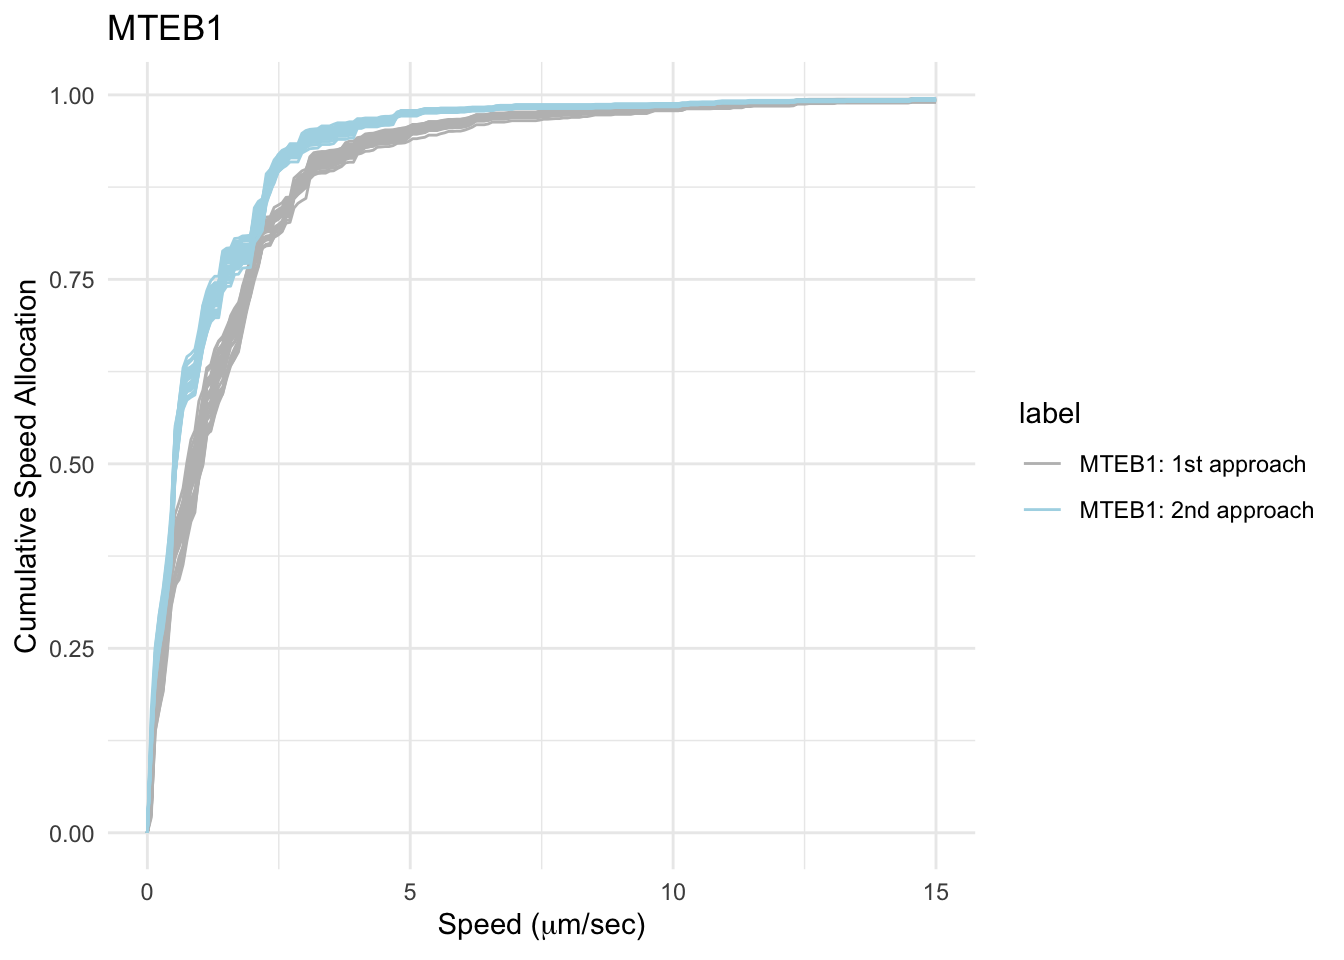
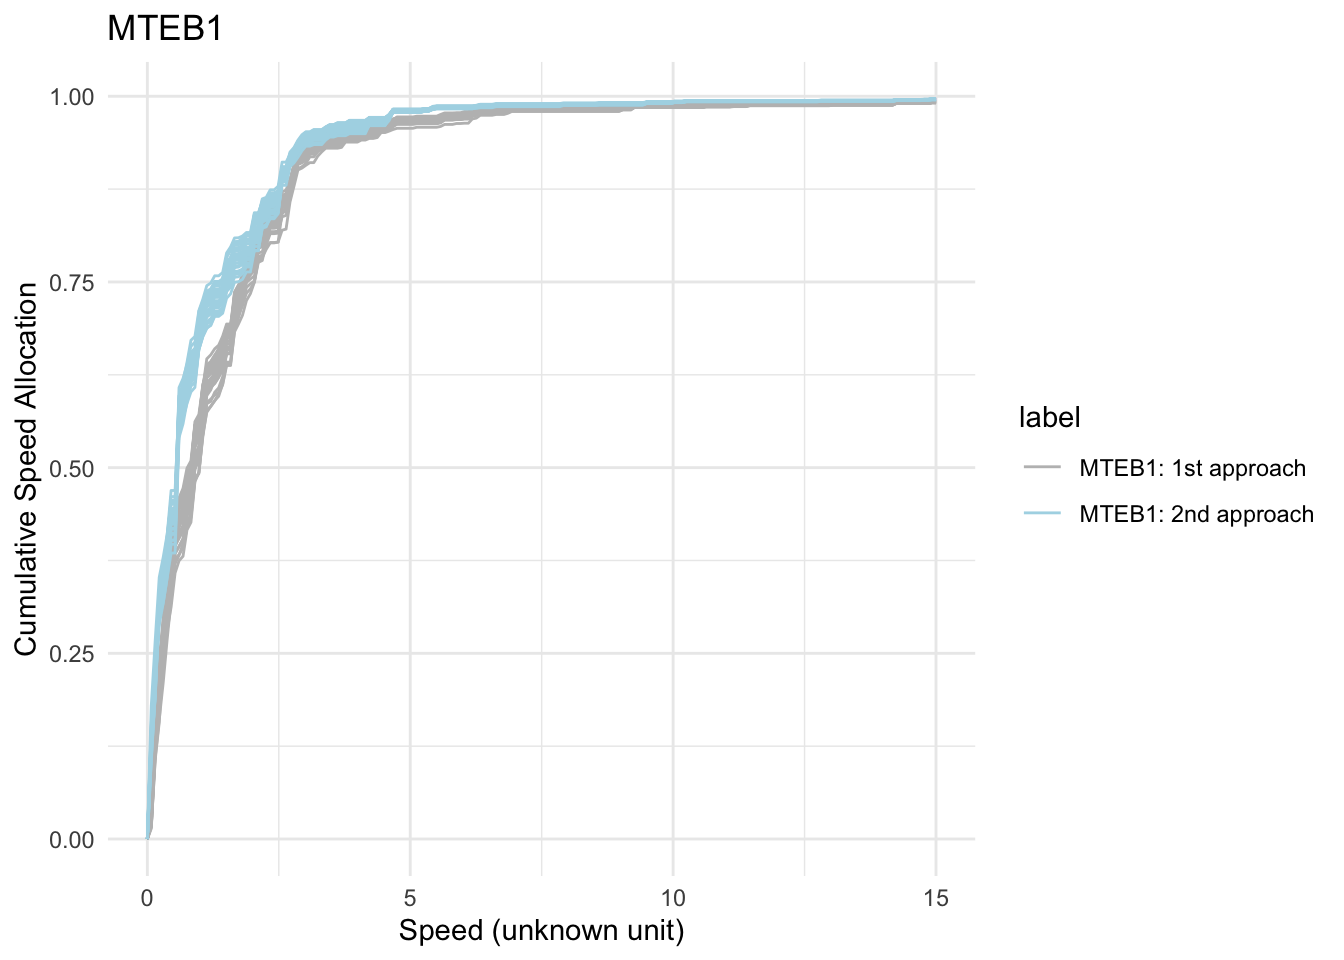
Build site.

diff --git a/docs/Movement_analysis_on_MTEB1_data.html b/docs/Movement_analysis_on_MTEB1_data.html
@@ -392,7 +392,7 @@ class="glyphicon glyphicon-ok text-success" aria-hidden="true"></span>
 <div class="tab-content">
 <div id="summary" class="tab-pane fade in active">
 <p>
-<strong>Last updated:</strong> 2025-08-31
+<strong>Last updated:</strong> 2025-09-02
 </p>
 <p>
 <strong>Checks:</strong> <span
@@ -523,15 +523,15 @@ project makes it easier to run your code on other machines.</p>
 <div class="panel panel-default">
 <div class="panel-heading">
 <p class="panel-title">
-<a data-toggle="collapse" data-parent="#workflowr-checks" href="#strongRepositoryversionstrongahrefhttpsgithubcomLdo3MTEB1Datatreedc11ef45e5eee281a27d04aa5146d543d7ead510targetblankdc11ef4a">
+<a data-toggle="collapse" data-parent="#workflowr-checks" href="#strongRepositoryversionstrongahrefhttpsgithubcomLdo3MTEB1Datatreef2cc3daaed8329593bad81776e99f9081a0f0d7ctargetblankf2cc3daa">
 <span class="glyphicon glyphicon-ok text-success"
 aria-hidden="true"></span> <strong>Repository version:</strong>
-<a href="https://github.com/Ldo3/MTEB1Data/tree/dc11ef45e5eee281a27d04aa5146d543d7ead510" target="_blank">dc11ef4</a>
+<a href="https://github.com/Ldo3/MTEB1Data/tree/f2cc3daaed8329593bad81776e99f9081a0f0d7c" target="_blank">f2cc3da</a>
 </a>
 </p>
 </div>
 <div
[2 lines of base64/hex data omitted]
 class="panel-collapse collapse">
 <div class="panel-body">
 <p>
@@ -541,7 +541,7 @@ reproducibility.
 </p>
 <p>
 The results in this page were generated with repository version
-<a href="https://github.com/Ldo3/MTEB1Data/tree/dc11ef45e5eee281a27d04aa5146d543d7ead510" target="_blank">dc11ef4</a>.
+<a href="https://github.com/Ldo3/MTEB1Data/tree/f2cc3daaed8329593bad81776e99f9081a0f0d7c" target="_blank">f2cc3da</a>.
 See the <em>Past versions</em> tab to see a history of the changes made
 to the R Markdown and HTML files.
 </p>
@@ -575,7 +575,10 @@ Untracked files:
     Untracked:  code/plot_functions.R
     Untracked:  code/postprocess.R
     Untracked:  data/CPLASS_MTEB1_1st.rds
+    Untracked:  data/CPLASS_MTEB1_1st_1.rds
+    Untracked:  data/CPLASS_MTEB1_1st_s_cap_6.rds
     Untracked:  data/CPLASS_MTEB1_2nd.rds
+    Untracked:  data/CPLASS_MTEB1_2nd_1.rds
     Untracked:  data/branch_points.csv
     Untracked:  data/branch_points.png
     Untracked:  data/first_approach_data.rds
@@ -630,6 +633,40 @@ Message
 </tr>
 </thead>
 <tbody>
+<tr>
+<td>
+Rmd
+</td>
+<td>
+<a href="https://github.com/Ldo3/MTEB1Data/blob/f2cc3daaed8329593bad81776e99f9081a0f0d7c/analysis/Movement_analysis_on_MTEB1_data.Rmd" target="_blank">f2cc3da</a>
+</td>
+<td>
+Ldo3
+</td>
+<td>
+2025-09-02
+</td>
+<td>
+wflow_publish(c("index.Rmd", "Movement_analysis_on_MTEB1_data.Rmd"))
+</td>
+</tr>
+<tr>
+<td>
+html
+</td>
+<td>
+<a href="https://rawcdn.githack.com/Ldo3/MTEB1Data/aabef47a0148058d565b9c89fe97d65982ab261d/docs/Movement_analysis_on_MTEB1_data.html" target="_blank">aabef47</a>
+</td>
+<td>
+Ldo3
+</td>
+<td>
+2025-08-31
+</td>
+<td>
+Build site.
+</td>
+</tr>
 <tr>
 <td>
 html
@@ -816,7 +853,7 @@ times.</p></li>
 <li><p>The green areas show the motile segments while the pink areas
 show the stationary segments.</p></li>
 </ul>
-<pre class="r"><code>path_list = readRDS(here(&quot;data&quot;,&quot;CPLASS_MTEB1_1st.rds&quot;))
+<pre class="r"><code>path_list = readRDS(here(&quot;data&quot;,&quot;CPLASS_MTEB1_1st_1.rds&quot;))
 #######################
 motor = &quot;MTEB1-1st&quot; #change the name to the name of your data
 dist_max = c()
@@ -918,15 +955,15 @@ Ldo3
 </table>
 </div>
 </div>
-<pre class="r"><code># path_list = readRDS(here(&quot;data&quot;,&quot;CPLASS_MTEB1_1st.rds&quot;))
+<pre class="r"><code># path_list = readRDS(here(&quot;data&quot;,&quot;CPLASS_MTEB1_1st_1.rds&quot;))
 # #######################
 # # for REAL DATA use the lines below.
 # file_list = c(&quot;MTEB1-1st&quot;)
 # filestub = paste0(&quot;figures/Real&quot;,file_list[1])
 # # infile = paste0(filestub,&quot;_cplass.rds&quot;)
-# outfile = paste0(filestub,&quot;_gallery.pdf&quot;)
+# outfile = paste0(filestub,&quot;_gallery_1.pdf&quot;)
 # # path_list = readRDS(infile)
-# # 
+# #
 # motor = &quot;MTEB1-1st&quot; #change the name to the name of your data
 # 
 # #######################
@@ -935,7 +972,7 @@ Ldo3
 # # infile = paste0(filestub,&quot;.rds&quot;)
 # # outfile = paste0(filestub,&quot;_gallery_&quot;,sp,&quot;.pdf&quot;)
 # # path_list = readRDS(infile)
-# # 
+# #
 # # if(theta$motor == &quot;CKP&quot;){
 # #     motor = &quot;Base&quot;
 # #   }else if(theta$motor == &quot;kin1&quot;){
@@ -962,7 +999,7 @@ Ldo3
 #   path = path_list[[i]]$path_inferred
 #   segments = path_list[[i]]$segments_inferred
 #   speed_max = c(speed_max,max(path_list[[i]]$segments_inferred$speeds))
-#   
+# 
 #   dist_max = c(dist_max,max(c(max(path$x)-min(path$x)),
 #                             max((path$y)-min(path$y))))
 #   t_max = c(t_max,max(path$t) - min(path$t))
@@ -976,7 +1013,7 @@ Ldo3
 #   if (i %% 20 == 0){
 #     print(paste(&quot;Working on path&quot;,i))
 #   }
-#   
+# 
 #   # #REAL DATA PLOTS (dashboard)
 #   # dashboard = plot_path_real(path_list[[i]],xy_width,t_lim)
 #   # print(dashboard)
@@ -988,7 +1025,7 @@ Ldo3
 #   # SIMULATION PLOTS (only x-y plot)
 #   # plot_xy = plot_path_inferred_xy(path_list[[i]],xy_width,t_lim, motor, max_speed)
 #   # print(plot_xy)
-#   
+# 
 # }
 # 
 # if (pdf_output == TRUE){
@@ -1105,13 +1142,13 @@ times.</p></li>
 <li><p>The green areas show the motile segments while the pink areas
 show the stationary segments.</p></li>
 </ul>
-<pre class="r"><code>path_list = readRDS(here(&quot;data&quot;,&quot;CPLASS_MTEB1_2nd.rds&quot;))
+<pre class="r"><code>path_list = readRDS(here(&quot;data&quot;,&quot;CPLASS_MTEB1_2nd_1.rds&quot;))
 #######################
 # for REAL DATA use the lines below.
 file_list = c(&quot;MTEB1-2nd&quot;)
 filestub = paste0(&quot;figures/Real&quot;,file_list[1])
 # infile = paste0(filestub,&quot;_cplass.rds&quot;)
-outfile = paste0(filestub,&quot;_gallery.pdf&quot;)
+outfile = paste0(filestub,&quot;_gallery_1.pdf&quot;)
 # path_list = readRDS(infile)
 # 
 motor = &quot;MTEB1-2nd&quot; #change the name to the name of your data
@@ -1290,15 +1327,15 @@ Ldo3
 </table>
 </div>
 </div>
-<pre class="r"><code># path_list = readRDS(here(&quot;data&quot;,&quot;CPLASS_MTEB1_2nd.rds&quot;))
+<pre class="r"><code># path_list = readRDS(here(&quot;data&quot;,&quot;CPLASS_MTEB1_2nd_1.rds&quot;))
 # #######################
 # # for REAL DATA use the lines below.
 # file_list = c(&quot;MTEB1-2nd&quot;)
 # filestub = paste0(&quot;figures/Real&quot;,file_list[1])
 # # infile = paste0(filestub,&quot;_cplass.rds&quot;)
-# outfile = paste0(filestub,&quot;_gallery.pdf&quot;)
+# outfile = paste0(filestub,&quot;_gallery_1.pdf&quot;)
 # # path_list = readRDS(infile)
-# # 
+# #
 # motor = &quot;MTEB1-2nd&quot; #change the name to the name of your data
 # 
 # #######################
@@ -1307,7 +1344,7 @@ Ldo3
 # # infile = paste0(filestub,&quot;.rds&quot;)
 # # outfile = paste0(filestub,&quot;_gallery_&quot;,sp,&quot;.pdf&quot;)
 # # path_list = readRDS(infile)
-# # 
+# #
 # # if(theta$motor == &quot;CKP&quot;){
 # #     motor = &quot;Base&quot;
 # #   }else if(theta$motor == &quot;kin1&quot;){
@@ -1334,7 +1371,7 @@ Ldo3
 #   path = path_list[[i]]$path_inferred
 #   segments = path_list[[i]]$segments_inferred
 #   speed_max = c(speed_max,max(path_list[[i]]$segments_inferred$speeds))
-#   
+# 
 #   dist_max = c(dist_max,max(c(max(path$x)-min(path$x)),
 #                             max((path$y)-min(path$y))))
 #   t_max = c(t_max,max(path$t) - min(path$t))
@@ -1348,7 +1385,7 @@ Ldo3
 #   if (i %% 20 == 0){
 #     print(paste(&quot;Working on path&quot;,i))
 #   }
-#   
+# 
 #   # #REAL DATA PLOTS (dashboard)
 #   # dashboard = plot_path_real(path_list[[i]],xy_width,t_lim)
 #   # print(dashboard)
@@ -1360,7 +1397,7 @@ Ldo3
 #   # SIMULATION PLOTS (only x-y plot)
 #   # plot_xy = plot_path_inferred_xy(path_list[[i]],xy_width,t_lim, motor, max_speed)
 #   # print(plot_xy)
-#   
+# 
 # }
 # 
 # if (pdf_output == TRUE){
@@ -1372,8 +1409,8 @@ Ldo3
 <h1>Run CSA for both approaches</h1>
 <pre class="r"><code>pdf_output = TRUE
 
-real_data_not_merged_file = c(here(&quot;data&quot;,&quot;CPLASS_MTEB1_1st.rds&quot;))
-real_data_merged_file = c(here(&quot;data&quot;,&quot;CPLASS_MTEB1_2nd.rds&quot;))
+real_data_not_merged_file = c(here(&quot;data&quot;,&quot;CPLASS_MTEB1_1st_1.rds&quot;))
+real_data_merged_file = c(here(&quot;data&quot;,&quot;CPLASS_MTEB1_2nd_1.rds&quot;))
 
 real_path_not_merged_list = readRDS(real_data_not_merged_file)
 real_path_merged_list = readRDS(real_data_merged_file)
@@ -1454,7 +1491,9 @@ p_csa = ggplot(csa %&gt;% filter(label == cohort_list[1] |
                                       label == cohort_list[2]))+
   geom_line(aes(x = s, y = csa, col = label, group = cohort))+
   ggtitle(&quot;MTEB1&quot;)+
-  ylab(&quot;Cumulative Speed Allocation&quot;)+xlab(expression(paste(&quot;Speed (&quot;,mu,&quot;m/sec)&quot;)))+
+  ylab(&quot;Cumulative Speed Allocation&quot;)+
+  xlab(&quot;Speed (unknown unit)&quot;)+
+# +xlab(expression(paste(&quot;Speed (&quot;,mu,&quot;m/sec)&quot;)))+
   scale_color_manual(values = color_list)+
   theme_minimal()
 # +
@@ -1508,17 +1547,17 @@ print(&quot;The highest speed value in the first approach is&quot;)</code></pre>
 <pre><code># A tibble: 1 × 5
   durations states speeds label               path_id
       &lt;dbl&gt;  &lt;dbl&gt;  &lt;dbl&gt; &lt;chr&gt;                 &lt;int&gt;
-1         1      1   28.4 MTEB1: 1st approach      34</code></pre>
+1         1      1   29.5 MTEB1: 1st approach      34</code></pre>
 <pre class="r"><code>print(&quot;The highest speed value in the second approach is&quot;)</code></pre>
 <pre><code>[1] &quot;The highest speed value in the second approach is&quot;</code></pre>
 <pre class="r"><code>speed_df2%&gt;% filter(speeds ==max(speeds))</code></pre>
 <pre><code># A tibble: 1 × 5
   durations states speeds label               path_id
       &lt;dbl&gt;  &lt;dbl&gt;  &lt;dbl&gt; &lt;chr&gt;                 &lt;int&gt;
-1         1      1   30.8 MTEB1: 2nd approach       9</code></pre>
+1         1      1   34.6 MTEB1: 2nd approach       5</code></pre>
 <pre class="r"><code>ggplot(segment_summary, aes(x = speeds, fill = label)) +
   geom_density(alpha = 0.4) +
-  labs(title = &quot;KDE of inferred speed in different approaches&quot;, x = &quot;Speed (mu/s)&quot;, y = &quot;Density&quot;) +
+  labs(title = &quot;KDE of inferred speed in different approaches&quot;, x = &quot;Speed (unknown unit)&quot;, y = &quot;Density&quot;) +
   theme_minimal()</code></pre>
 <p><img src="figure/Movement_analysis_on_MTEB1_data.Rmd/kernel%20density%20estimation%20-%20speed%20distribution-1.png" width="672" style="display: block; margin: auto;" /></p>
 <p>
@@ -1559,16 +1598,12 @@ Ldo3
 </table>
 </div>
 </div>
-<p>From the CSA plot, the second approach provide more segments will
-speed between 0 -5 <span class="math inline">\(\mu m/s\)</span> than in
+<p>From the CSA plot, looking at the speed between 0 and 5, the blobs in
+the second approach spend more time at these speed values than those in
 the first approach.</p>
-<p>Merged tracks in the second approach provide us clearer picture where
-a blob pass branch points, e.g., paths we plotted above.</p>
-<p>We also want to point out that CPLASS does not work well with too
-short path such as 10-20 time steps (see the plot gallery for the first
-approach), i.e., for too short path, the algorithm will detect a lot of
-changepoints. In the CPLASS, we discussed the consistency theory of
-CPLASS when we have the sample size is large enough.</p>
+<p>Merged tracks in the second approach provide a clearer picture of
+where a blob passes branch points, such as the paths we plotted
+above.</p>
 <br>
 <p>
 <button type="button" class="btn btn-default btn-workflowr btn-workflowr-sessioninfo" data-toggle="collapse" data-target="#workflowr-sessioninfo" style="display: block;">

diff --git a/docs/index.html b/docs/index.html
@@ -380,7 +380,7 @@ class="glyphicon glyphicon-ok text-success" aria-hidden="true"></span>
 <div class="tab-content">
 <div id="summary" class="tab-pane fade in active">
 <p>
-<strong>Last updated:</strong> 2025-08-31
+<strong>Last updated:</strong> 2025-09-02
 </p>
 <p>
 <strong>Checks:</strong> <span
@@ -427,15 +427,15 @@ results.</p>
 <div class="panel panel-default">
 <div class="panel-heading">
 <p class="panel-title">
-<a data-toggle="collapse" data-parent="#workflowr-checks" href="#strongRepositoryversionstrongahrefhttpsgithubcomLdo3MTEB1Datatreedc11ef45e5eee281a27d04aa5146d543d7ead510targetblankdc11ef4a">
+<a data-toggle="collapse" data-parent="#workflowr-checks" href="#strongRepositoryversionstrongahrefhttpsgithubcomLdo3MTEB1Datatreef2cc3daaed8329593bad81776e99f9081a0f0d7ctargetblankf2cc3daa">
 <span class="glyphicon glyphicon-ok text-success"
 aria-hidden="true"></span> <strong>Repository version:</strong>
-<a href="https://github.com/Ldo3/MTEB1Data/tree/dc11ef45e5eee281a27d04aa5146d543d7ead510" target="_blank">dc11ef4</a>
+<a href="https://github.com/Ldo3/MTEB1Data/tree/f2cc3daaed8329593bad81776e99f9081a0f0d7c" target="_blank">f2cc3da</a>
 </a>
 </p>
 </div>
 <div
[2 lines of base64/hex data omitted]
 class="panel-collapse collapse">
 <div class="panel-body">
 <p>
@@ -445,7 +445,7 @@ reproducibility.
 </p>
 <p>
 The results in this page were generated with repository version
-<a href="https://github.com/Ldo3/MTEB1Data/tree/dc11ef45e5eee281a27d04aa5146d543d7ead510" target="_blank">dc11ef4</a>.
+<a href="https://github.com/Ldo3/MTEB1Data/tree/f2cc3daaed8329593bad81776e99f9081a0f0d7c" target="_blank">f2cc3da</a>.
 See the <em>Past versions</em> tab to see a history of the changes made
 to the R Markdown and HTML files.
 </p>
@@ -464,6 +464,7 @@ Ignored files:
     Ignored:    .Rhistory
     Ignored:    .Rproj.user/
     Ignored:    analysis/.DS_Store
+    Ignored:    analysis/figure/
     Ignored:    data/.DS_Store
 
 Untracked files:
@@ -479,7 +480,10 @@ Untracked files:
     Untracked:  code/plot_functions.R
     Untracked:  code/postprocess.R
     Untracked:  data/CPLASS_MTEB1_1st.rds
+    Untracked:  data/CPLASS_MTEB1_1st_1.rds
+    Untracked:  data/CPLASS_MTEB1_1st_s_cap_6.rds
     Untracked:  data/CPLASS_MTEB1_2nd.rds
+    Untracked:  data/CPLASS_MTEB1_2nd_1.rds
     Untracked:  data/branch_points.csv
     Untracked:  data/branch_points.png
     Untracked:  data/first_approach_data.rds
@@ -532,6 +536,23 @@ Message
 </tr>
 </thead>
 <tbody>
+<tr>
+<td>
+html
+</td>
+<td>
+<a href="https://rawcdn.githack.com/Ldo3/MTEB1Data/aabef47a0148058d565b9c89fe97d65982ab261d/docs/index.html" target="_blank">aabef47</a>
+</td>
+<td>
+Ldo3
+</td>
+<td>
+2025-08-31
+</td>
+<td>
+Build site.
+</td>
+</tr>
 <tr>
 <td>
 html
